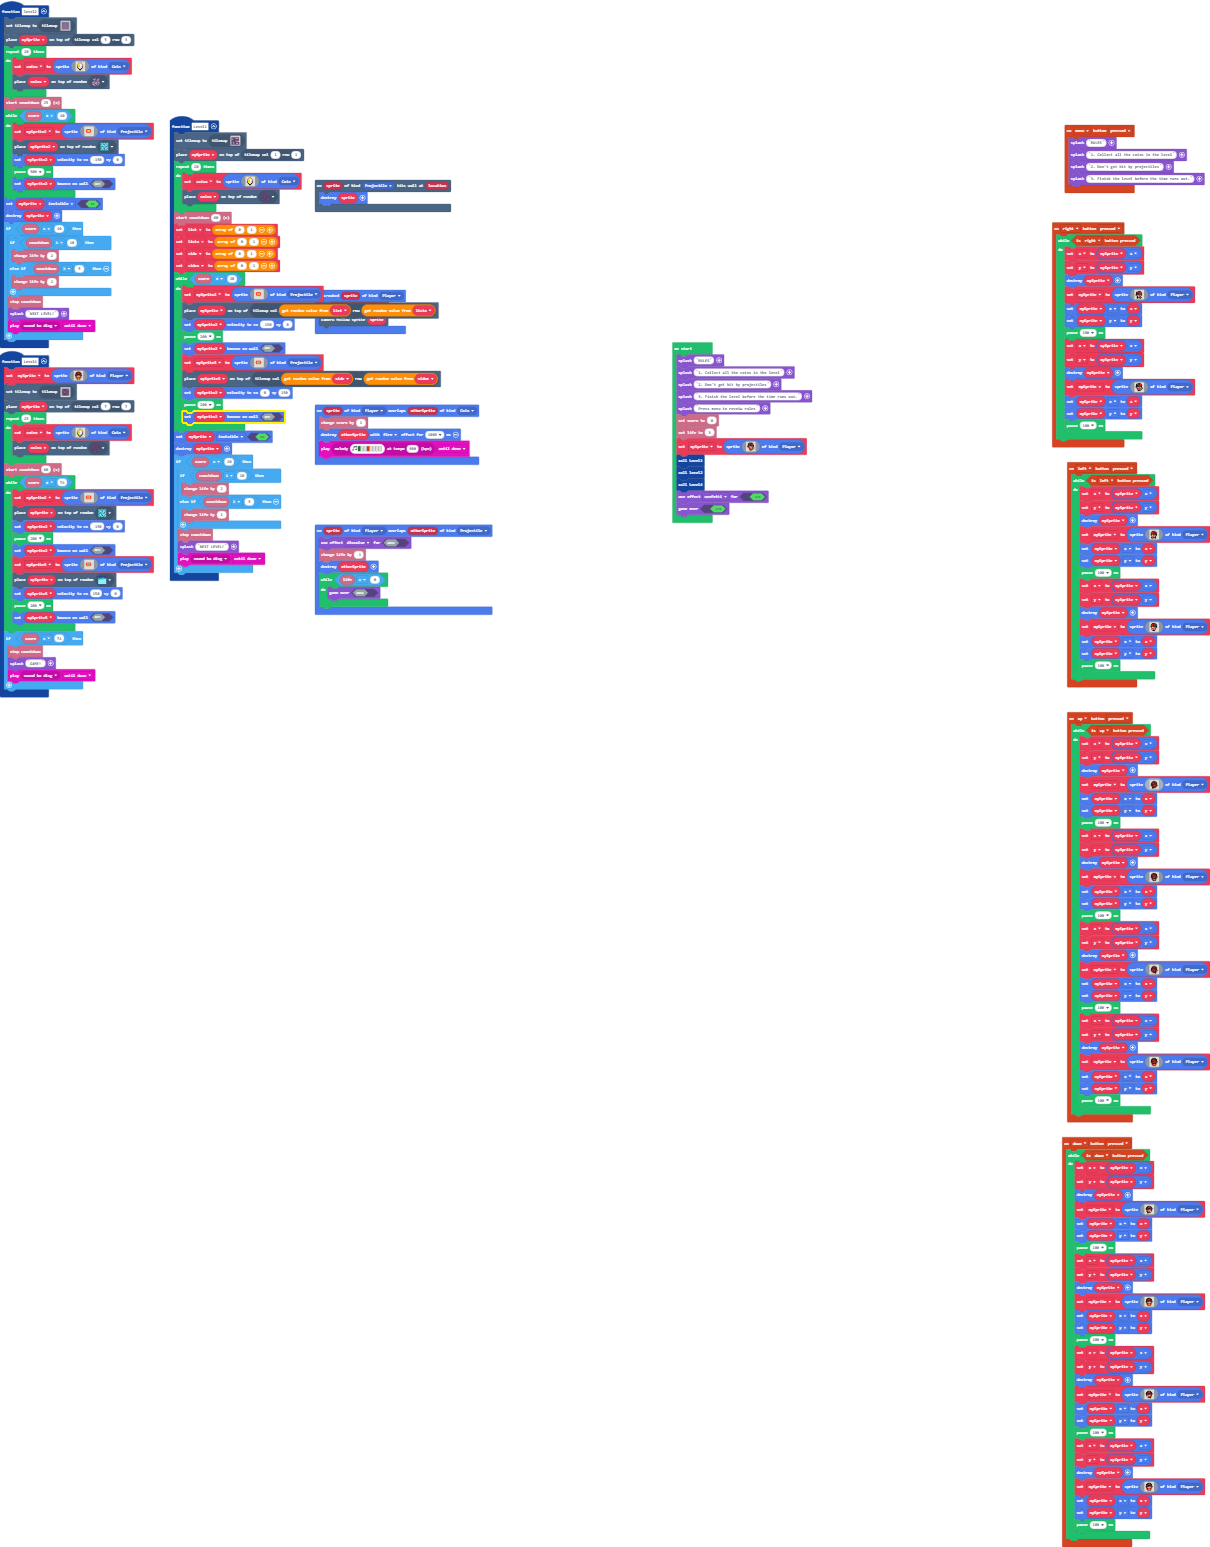
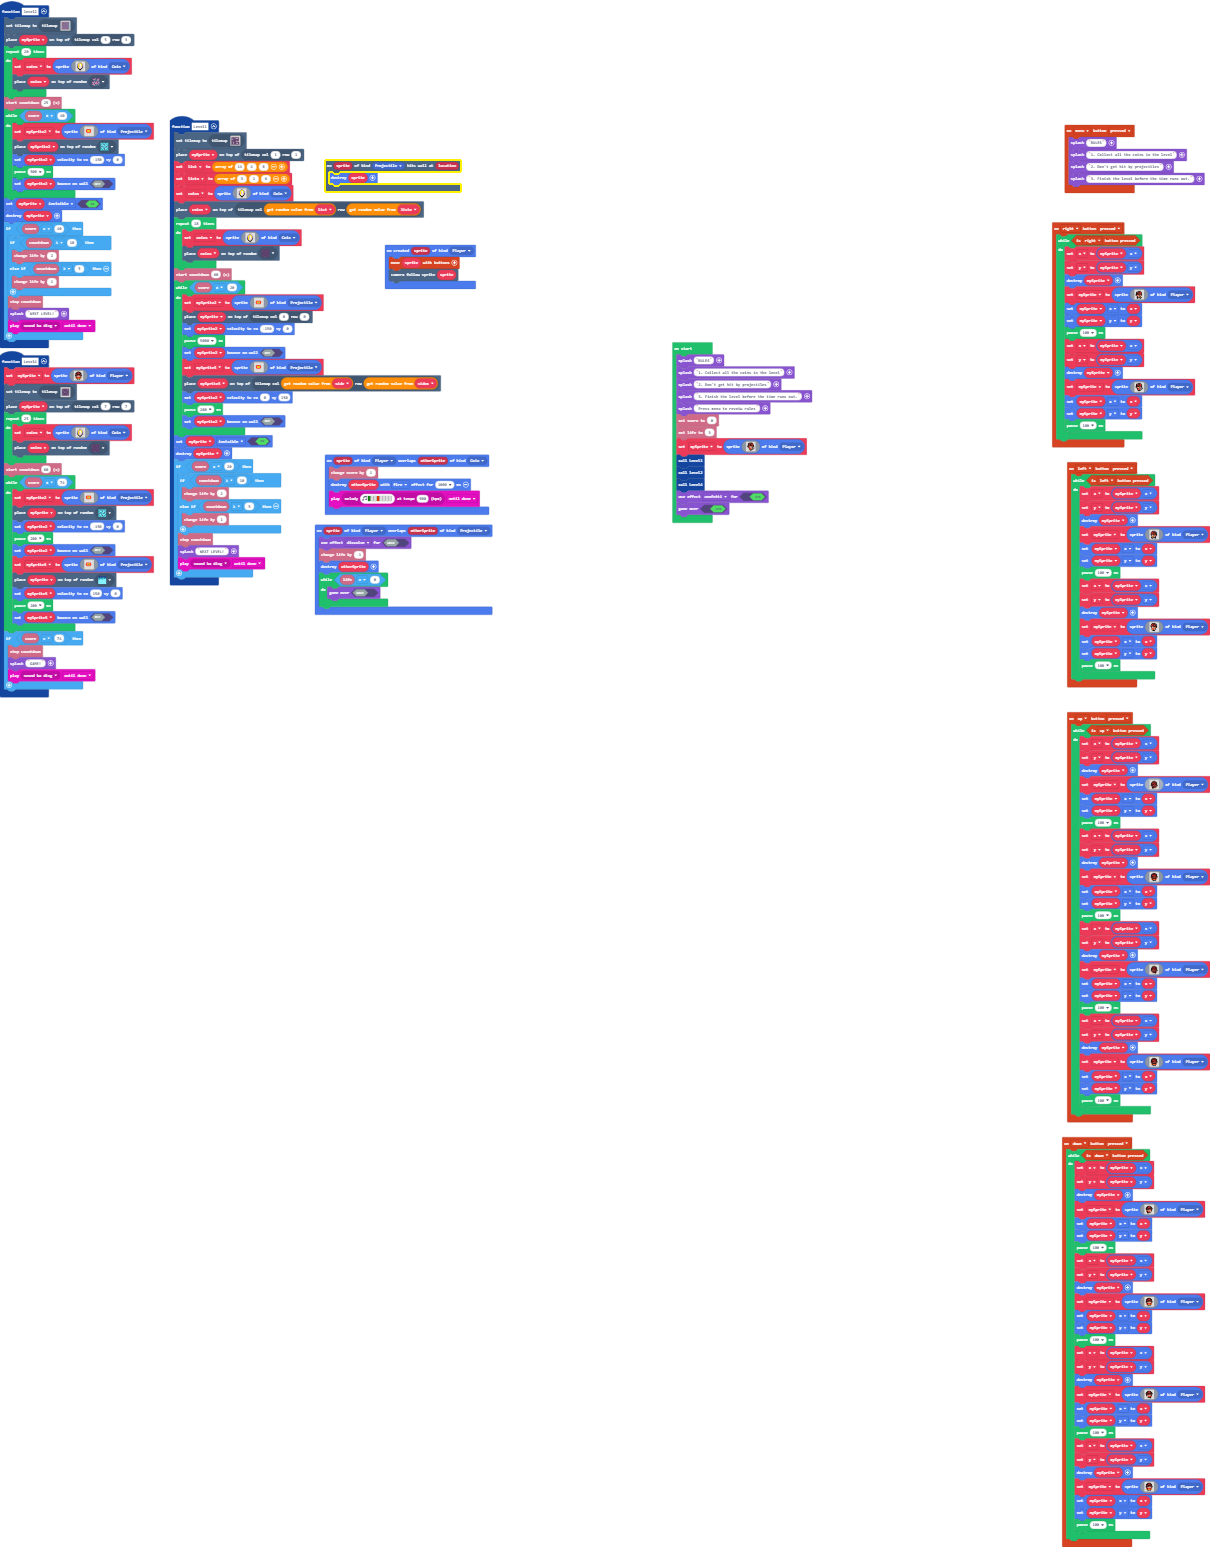
Update main.blocks, main.ts

Changed region(s): [[0.1223, 0.0931, 0.3975, 0.4034]]

diff --git a/main.ts b/main.ts
@@ -162,7 +162,20 @@ controller.left.onEvent(ControllerButtonEvent.Pressed, function () {
 function Level1 () {
     tiles.setCurrentTilemap(tilemap`level12`)
     tiles.placeOnTile(mySprite, tiles.getTileLocation(1, 1))
-    for (let index = 0; index < 20; index++) {
+    list = [14, 4, 8]
+    listx = [3, 1, 6]
+    coins = sprites.create(img`
+        . . . b b . . . 
+        . . b 5 5 b . . 
+        . b 5 d 1 5 b . 
+        . b 5 3 1 5 b . 
+        . c 5 3 1 d c . 
+        . c 5 1 d d c . 
+        . . f d d f . . 
+        . . . f f . . . 
+        `, SpriteKind.Coin)
+    tiles.placeOnTile(coins, tiles.getTileLocation(list._pickRandom(), listx._pickRandom()))
+    for (let index = 0; index < 18; index++) {
         coins = sprites.create(img`
             . . . b b . . . 
             . . b 5 5 b . . 
@@ -176,11 +189,9 @@ function Level1 () {
         tiles.placeOnRandomTile(coins, sprites.dungeon.darkGroundCenter)
     }
     info.startCountdown(60)
-    list = [0, 1]
-    listx = [0, 1]
-    side = [0, 1]
-    sidex = [0, 1]
     while (info.score() != 20) {
+        let sidex: number[] = []
+        let side: number[] = []
         mySprite2 = sprites.create(img`
             . . . . . . . . . . . . . . . . 
             . . . . . . . . . . . . . . . . 
@@ -199,9 +210,9 @@ function Level1 () {
             . . . . . . . . . . . . . . . . 
             . . . . . . . . . . . . . . . . 
             `, SpriteKind.Projectile)
-        tiles.placeOnTile(mySprite, tiles.getTileLocation(list._pickRandom(), listx._pickRandom()))
+        tiles.placeOnTile(mySprite, tiles.getTileLocation(0, 0))
         mySprite2.setVelocity(-150, 0)
-        pause(200)
+        pause(5000)
         mySprite2.setBounceOnWall(false)
         mySprite3 = sprites.create(img`
             . . . . . . . . . . . . . . . . 
@@ -555,11 +566,9 @@ sprites.onCreated(SpriteKind.Player, function (sprite) {
 })
 let mySprite3: Sprite = null
 let mySprite2: Sprite = null
-let sidex: number[] = []
-let side: number[] = []
+let coins: Sprite = null
 let listx: number[] = []
 let list: number[] = []
-let coins: Sprite = null
 let y = 0
 let x = 0
 let mySprite: Sprite = null
